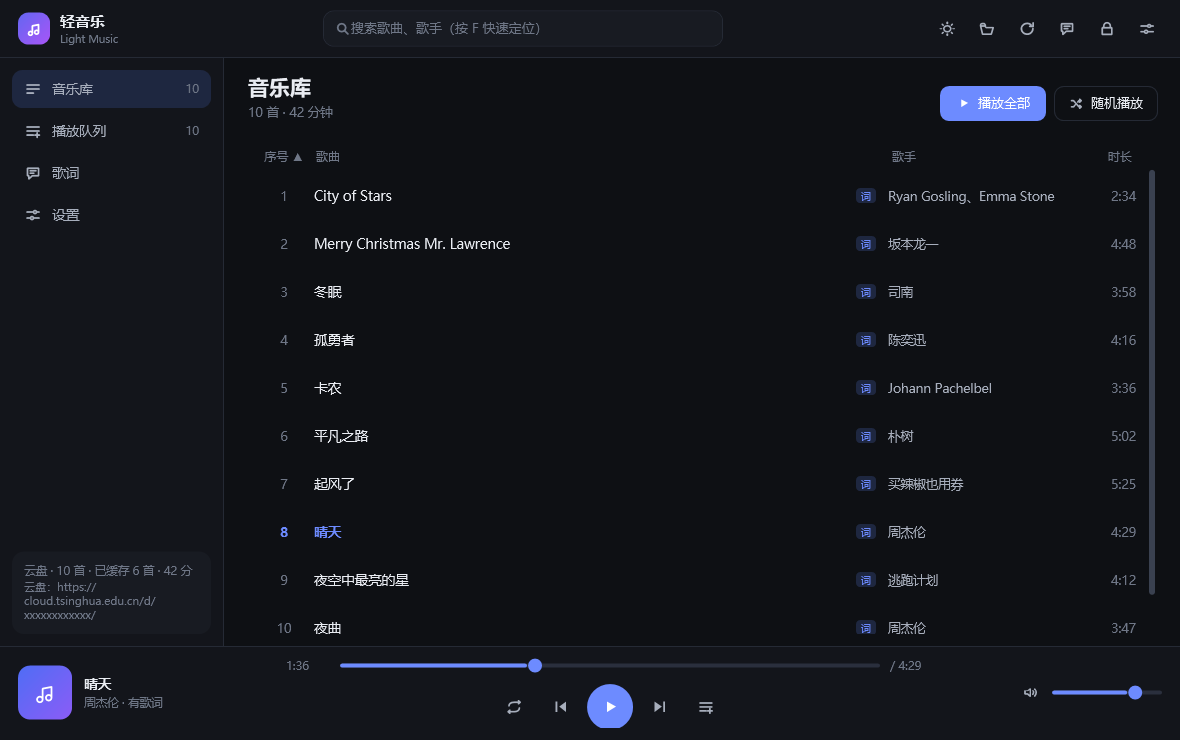
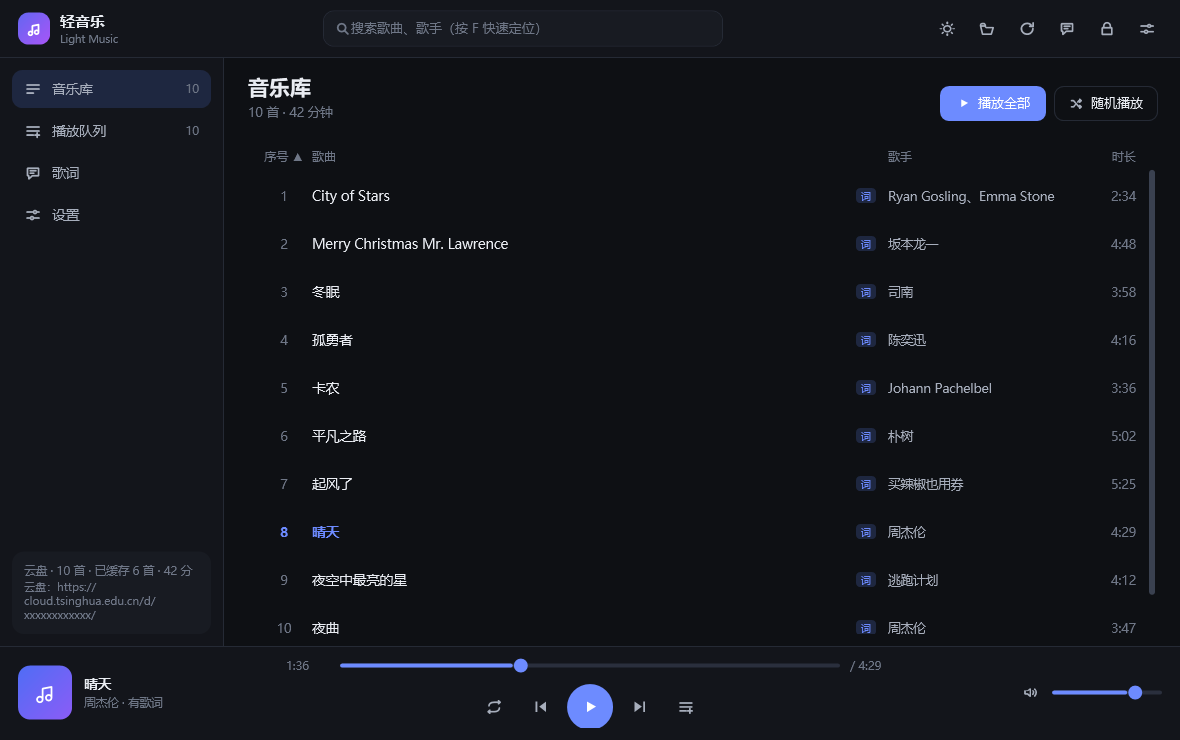
fix(ui): 修正列头与行内容错位、播放键未居中与队列歌手列参差
- 音乐库列头改为零水平内边距，标题列去掉 2px 偏移，列头与每行内容精确对齐

- 播放条左右两栏改为等宽，播放按钮与进度条位于窗口正中

- 播放队列的歌手名改为固定列宽，不再随歌名长短参差不齐

diff --git a/src/Resources/templates.xaml b/src/Resources/templates.xaml
@@ -18,7 +18,7 @@
                            HorizontalAlignment="Center" VerticalAlignment="Center" />
             </Grid>
 
-            <Grid Grid.Column="1" VerticalAlignment="Center" Margin="2,0,12,0">
+            <Grid Grid.Column="1" VerticalAlignment="Center" Margin="0,0,12,0">
                 <Grid.ColumnDefinitions>
                     <ColumnDefinition Width="Auto" />
                     <ColumnDefinition Width="*" />
@@ -62,6 +62,7 @@
             <Grid.ColumnDefinitions>
                 <ColumnDefinition Width="40" />
                 <ColumnDefinition Width="*" />
+                <ColumnDefinition Width="180" />
                 <ColumnDefinition Width="58" />
                 <ColumnDefinition Width="36" />
             </Grid.ColumnDefinitions>
@@ -72,23 +73,22 @@
 
             <Grid Grid.Column="1" VerticalAlignment="Center" Margin="2,0,10,0">
                 <Grid.ColumnDefinitions>
-                    <ColumnDefinition Width="Auto" />
-                    <ColumnDefinition Width="Auto" />
                     <ColumnDefinition Width="*" />
                 </Grid.ColumnDefinitions>
                 <TextBlock x:Name="qtitle" Grid.Column="0" Text="{Binding Title}" FontSize="13.5"
                            Foreground="{DynamicResource Text}" TextTrimming="CharacterEllipsis"
-                           VerticalAlignment="Center" MaxWidth="480" />
-                <TextBlock x:Name="qartist" Grid.Column="1" Text="{Binding ArtistText}" FontSize="12"
-                           Foreground="{DynamicResource TextMuted}" VerticalAlignment="Center"
-                           Margin="10,0,0,0" />
+                           VerticalAlignment="Center" />
             </Grid>
 
-            <TextBlock Grid.Column="2" Text="{Binding DurationText}" FontSize="12.5"
+            <TextBlock x:Name="qartist" Grid.Column="2" Text="{Binding ArtistText}" FontSize="12.5"
+                       Foreground="{DynamicResource TextDim}" VerticalAlignment="Center"
+                       TextTrimming="CharacterEllipsis" Margin="0,0,12,0" />
+
+            <TextBlock Grid.Column="3" Text="{Binding DurationText}" FontSize="12.5"
                        Foreground="{DynamicResource TextMuted}" HorizontalAlignment="Right"
                        VerticalAlignment="Center" />
 
-            <Border x:Name="removeAction" Grid.Column="3" Style="{StaticResource RowAction}"
+            <Border x:Name="removeAction" Grid.Column="4" Style="{StaticResource RowAction}"
                     Tag="remove" Opacity="0.4" ToolTip="从播放队列移除"
                     HorizontalAlignment="Center" VerticalAlignment="Center">
                 <Path Data="M6.6 6.6 L17.4 17.4 M17.4 6.6 L6.6 17.4" Stroke="{DynamicResource TextDim}"

diff --git a/src/Resources/theme.xaml b/src/Resources/theme.xaml
@@ -619,7 +619,7 @@
     <Style x:Key="ColumnHeader" TargetType="Button" BasedOn="{StaticResource GhostButton}">
         <Setter Property="Foreground" Value="{DynamicResource TextMuted}" />
         <Setter Property="FontSize" Value="12" />
-        <Setter Property="Padding" Value="4,4" />
+        <Setter Property="Padding" Value="0,4,0,4" />
         <Setter Property="HorizontalContentAlignment" Value="Left" />
         <Setter Property="Template">
             <Setter.Value>

diff --git a/src/MainWindow.cs b/src/MainWindow.cs
@@ -881,7 +881,7 @@ namespace LightMusic
             grid.ColumnDefinitions.Add(new ColumnDefinition());
             grid.ColumnDefinitions[1].Width = Ui.Stars(1);
             grid.ColumnDefinitions.Add(new ColumnDefinition());
-            grid.ColumnDefinitions[2].Width = Ui.Px(210);
+            grid.ColumnDefinitions[2].Width = Ui.Px(250);
 
             // 左：封面 + 歌曲信息
             Border cover = new Border();
